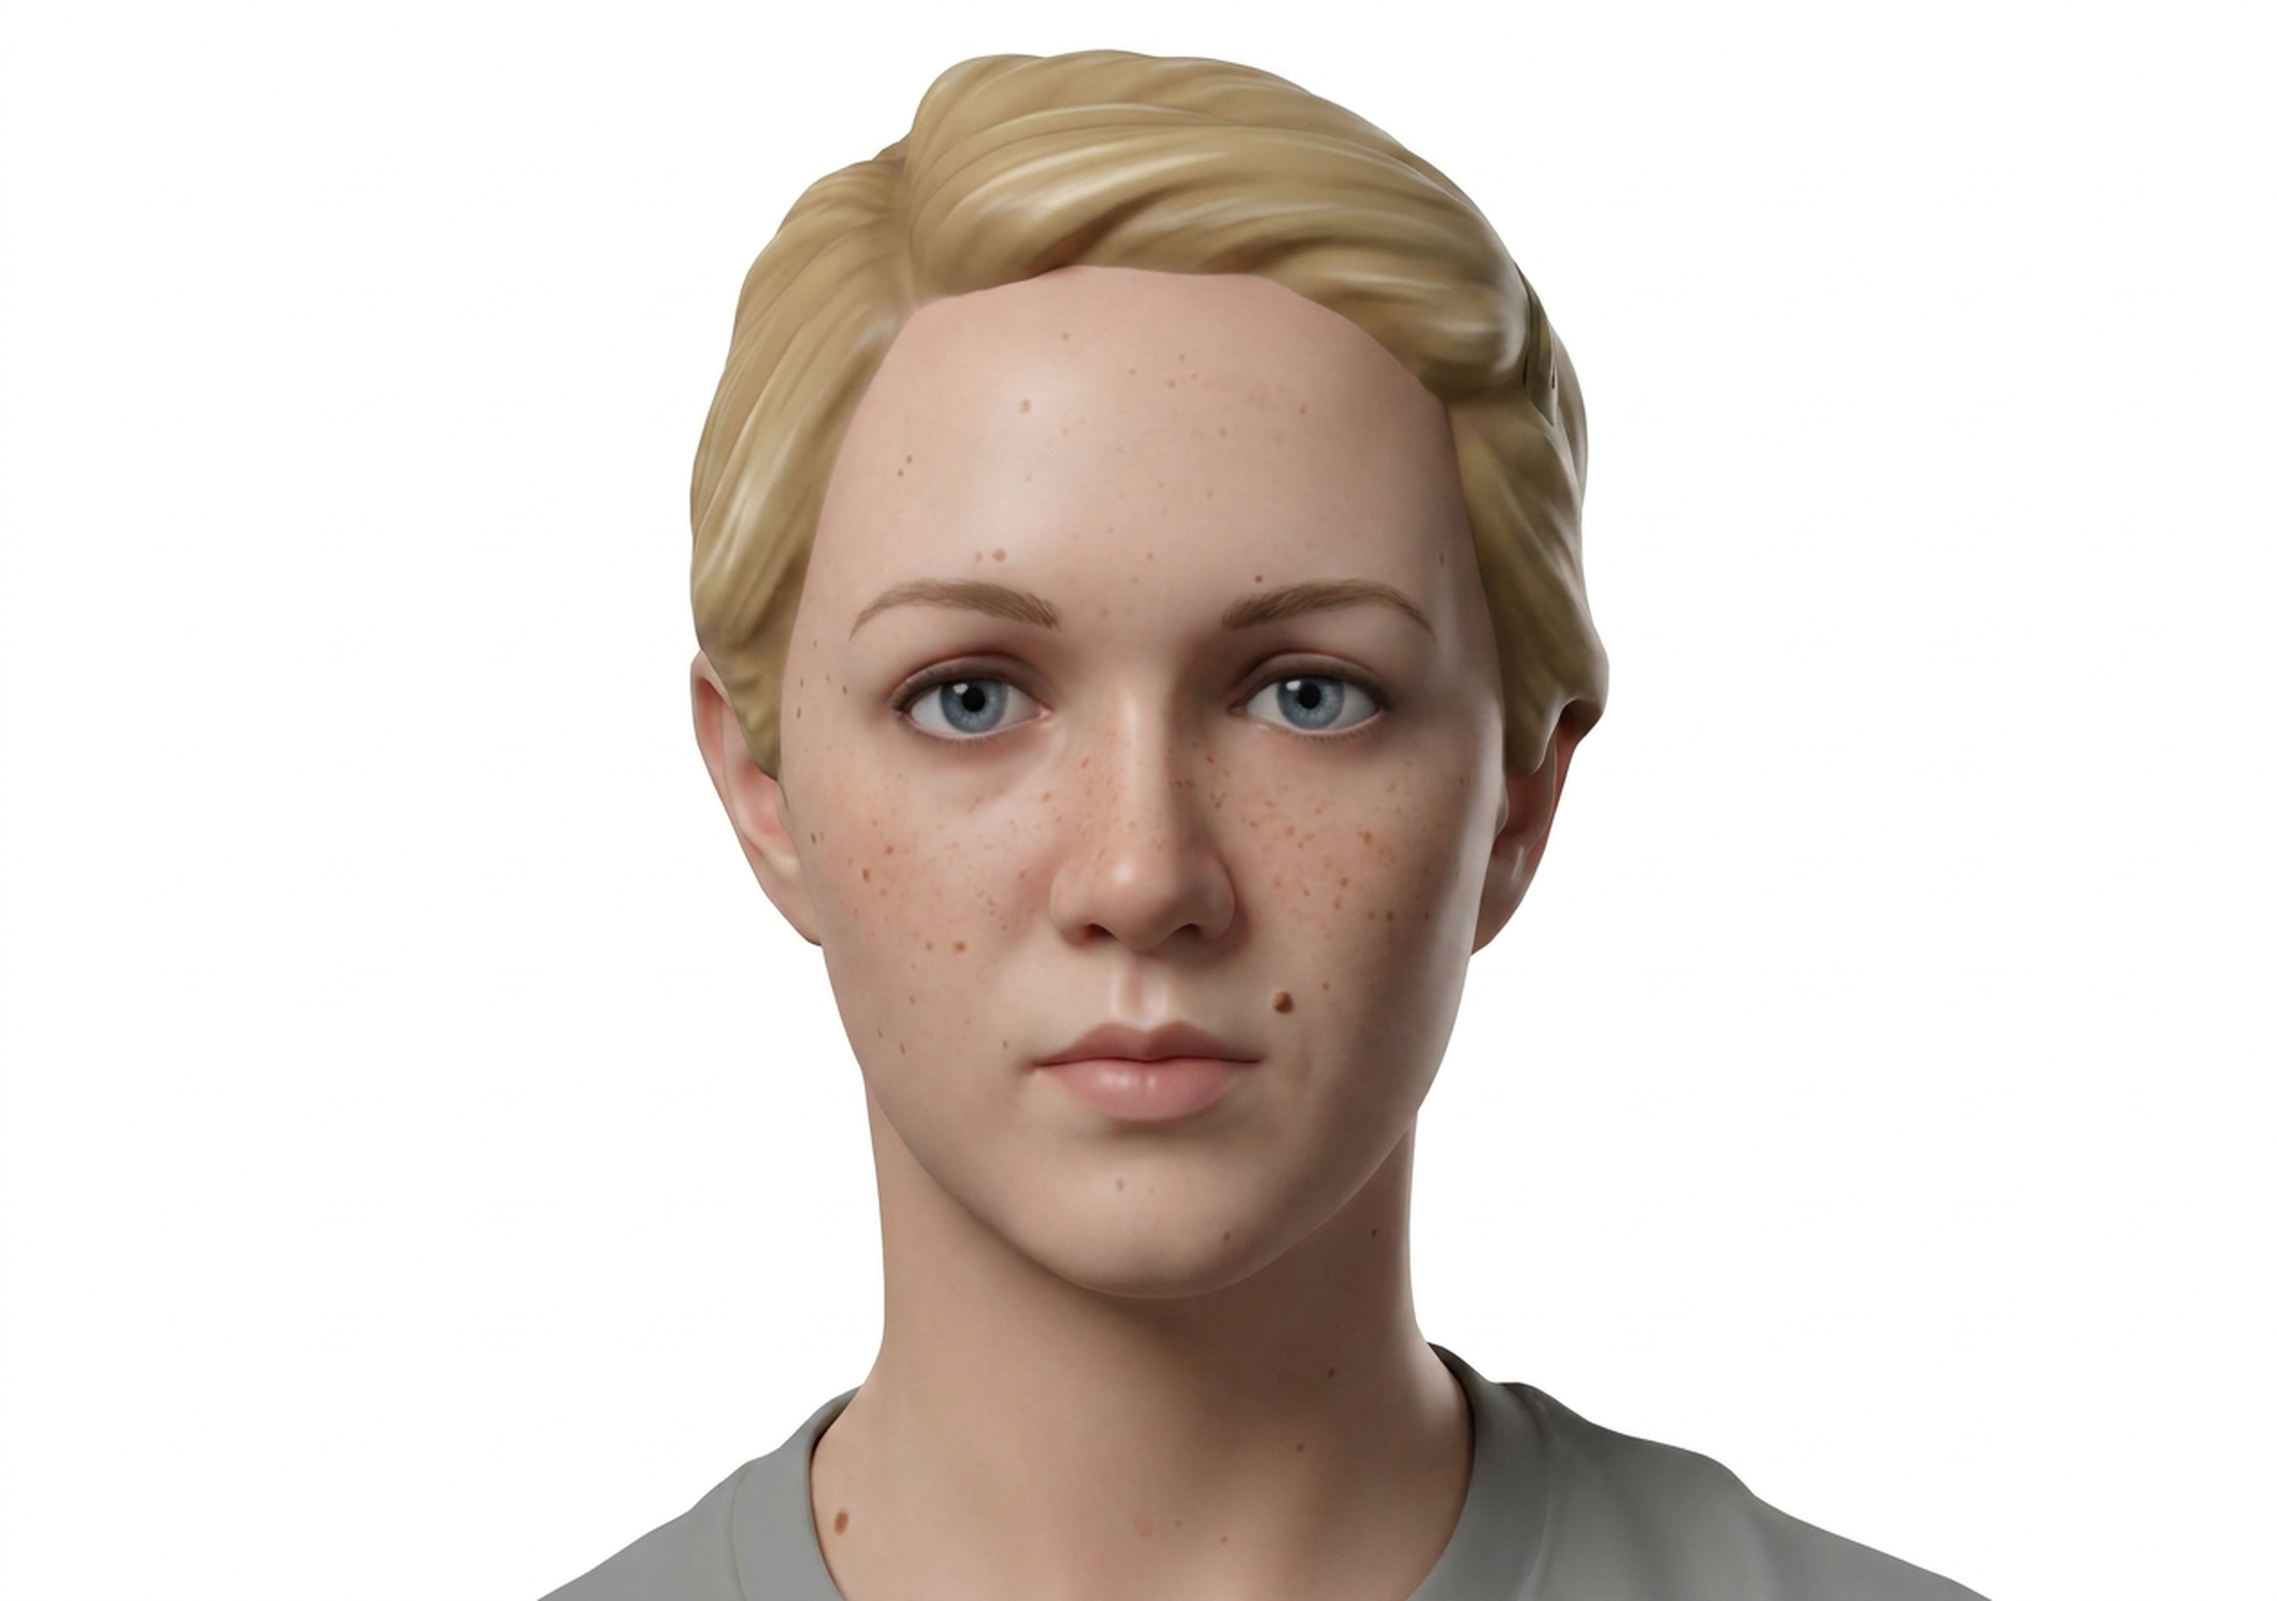
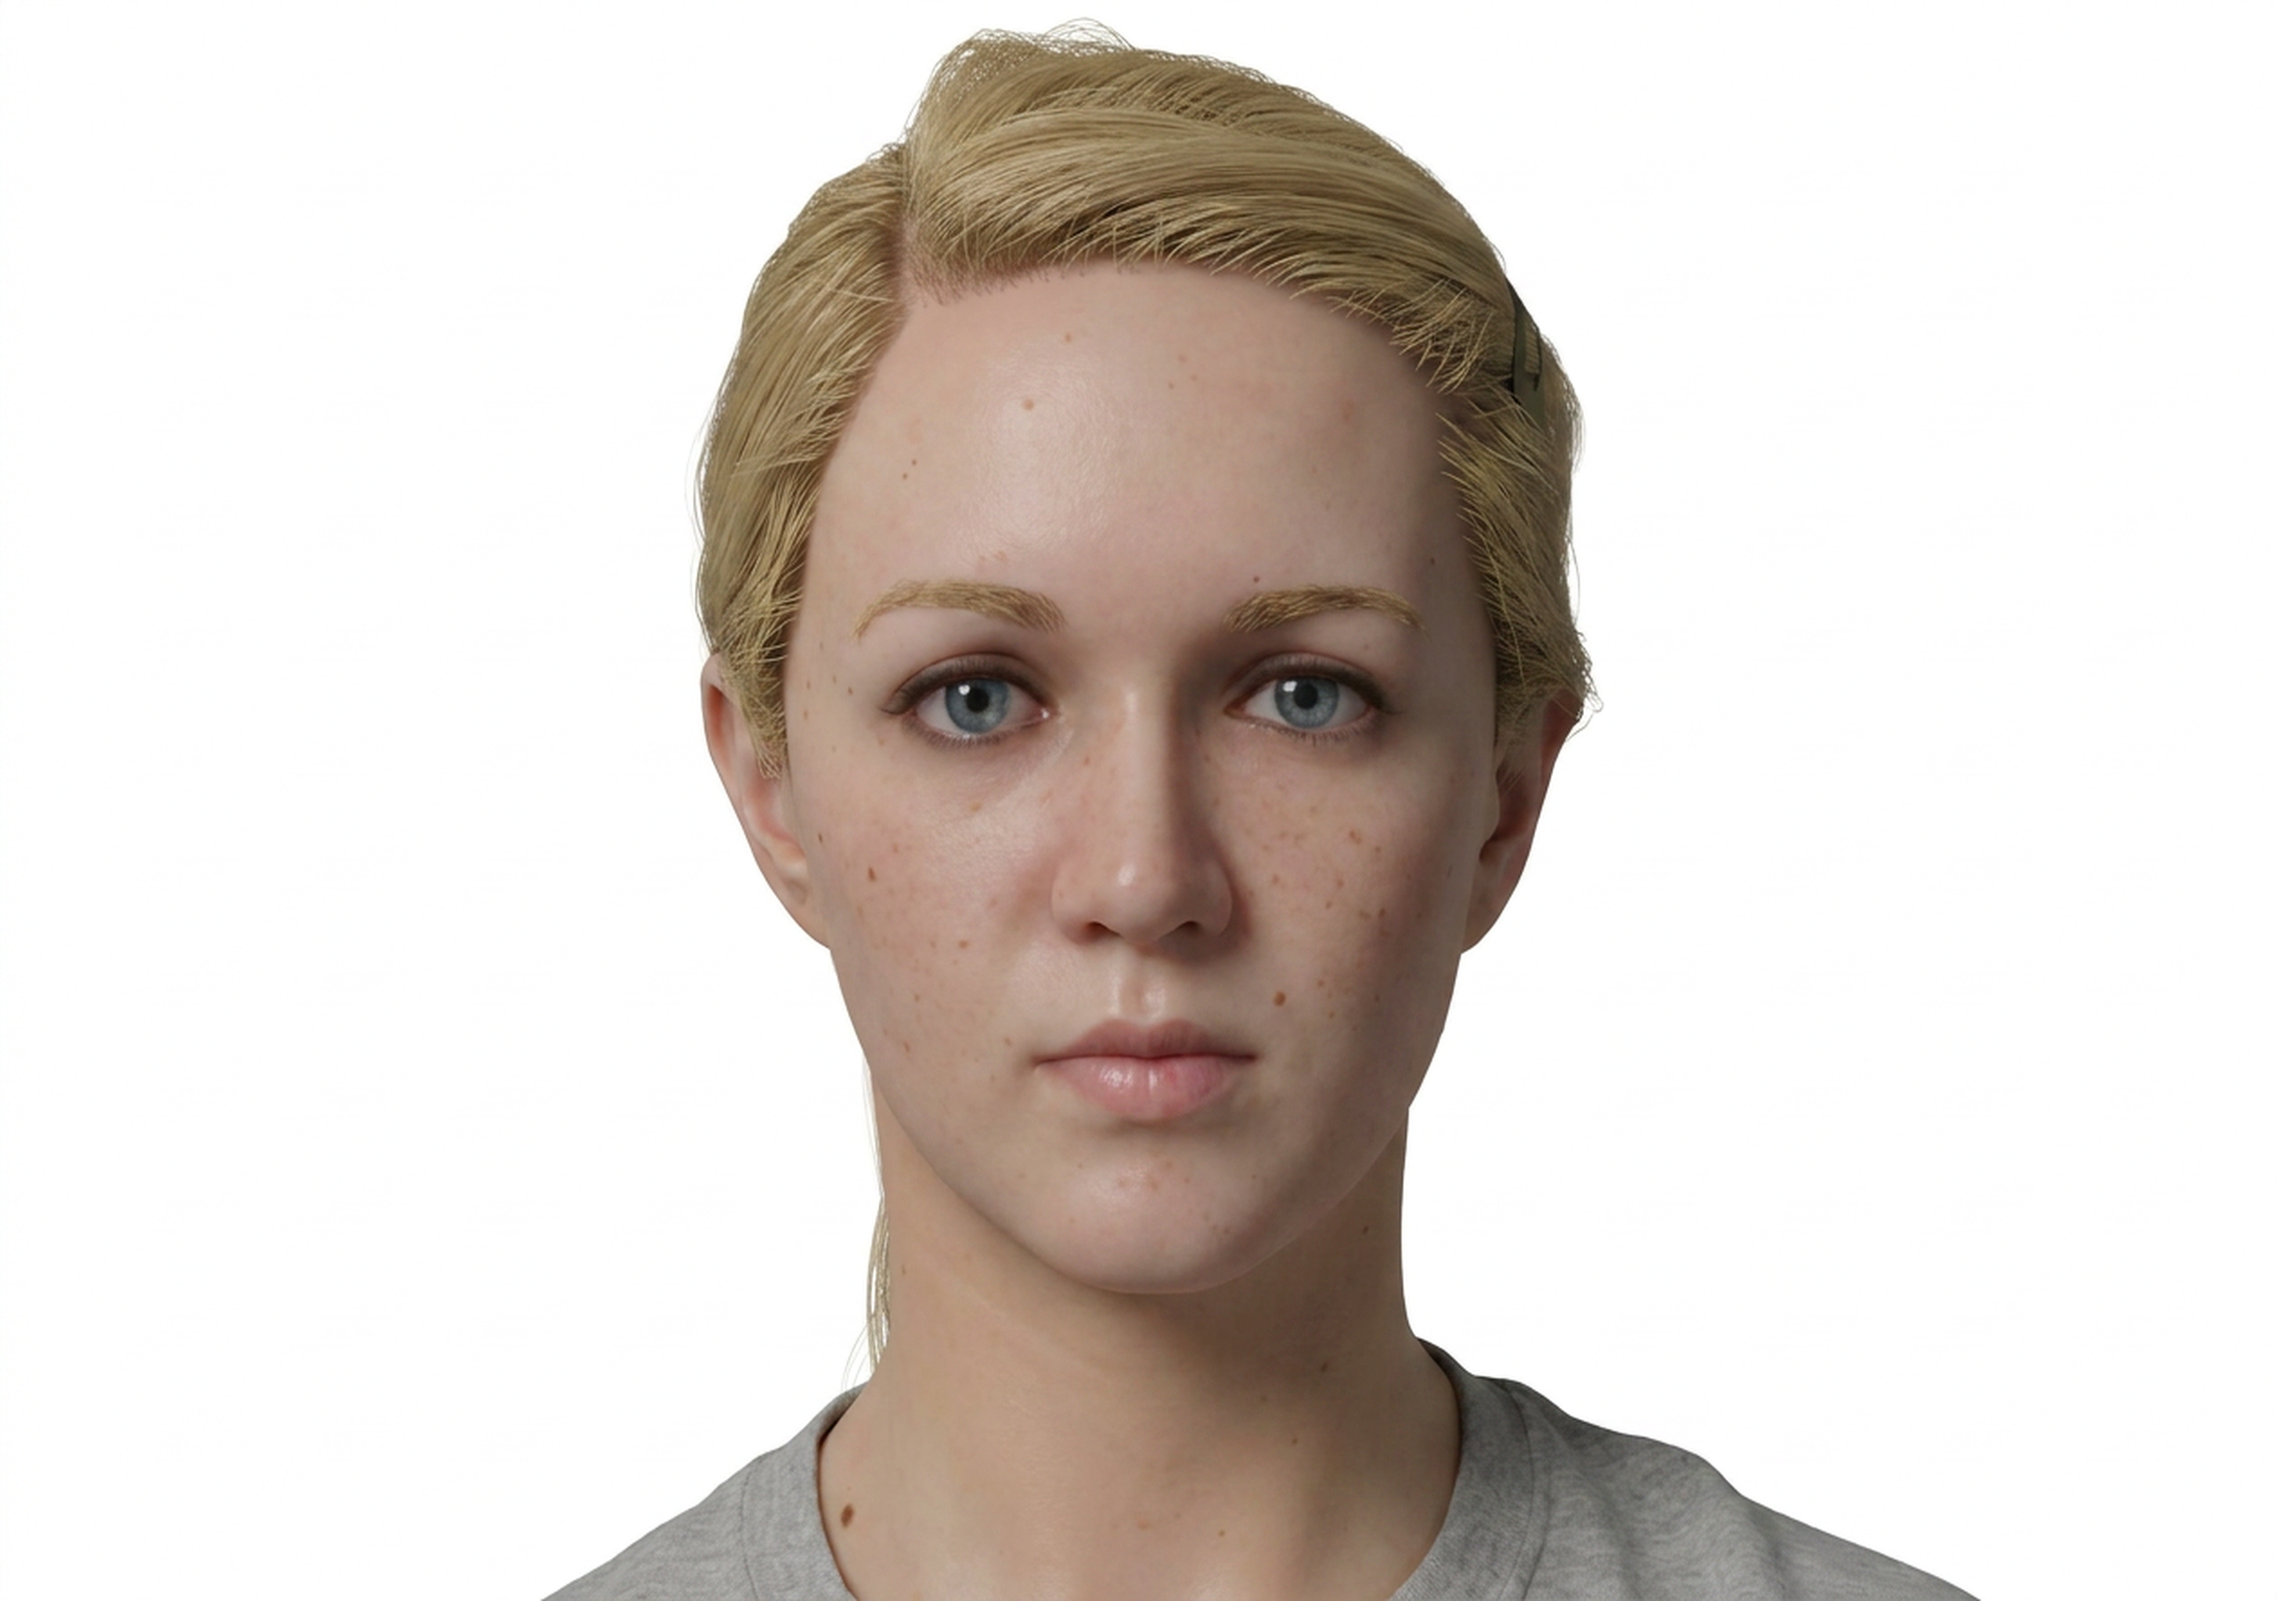
A good result: use version 5c to create medium and medium_high

diff --git a/main-generating-v5c.py b/main-generating-v5c.py
@@ -182,7 +182,8 @@ def build_prompt(level: str) -> str:
         "- Pose, head tilt, gaze direction, facial expression.\n"
         "- Camera framing, crop, distance, aspect ratio.\n"
         "- Lighting direction, light angle and shadow placement.\n"
-        "- Background (plain white #FFFFFF) and environment\n"
+        "- Replicate the exact Exposure Value (EV) of the base image\n"
+        "- Background (plain white #FFFFFF) and environment: rendered as the base image background\n"
         "- Clothing geometry, color, and spatial arrangement\n\n"
 
         "VARIABLE: only the SHADING MODEL and SURFACE RENDERING are allowed to change between levels. "
@@ -221,18 +222,25 @@ def build_prompt(level: str) -> str:
         )
 
     # ── MEDIUM-HIGH — AAA real-time game character (CoD MW 2019) ──────────
+    # DA PROVARE SE SI CREANO RISULTATI DIVERSI
+    #"The skin surface is rendered using a PBR material with a strongly "
+    #"diffuse-dominant albedo: subsurface scattering is present but clamped "
+    #"and hard-edged, producing an opaque, dense, slightly waxy appearance "
+    #"that clearly rejects biological photorealism. "
     if level == "medium_high":
         return (
             locked_context +
             "RENDER STYLE — Level MEDIUM-HIGH (AAA Video Game Asset Reconstruction):\n"
-            "Render the subject as a 3D playable character for a real-time engine. (Uncharted 4 CHARACTER aesthetics, but maintaining the lighting/exposure conditions and intensity of the original photo) "
+            "Render the subject as a 3D playable character for a real-time engine "
+            "(Uncharted 4 CHARACTER aesthetics). Replicate the exact Exposure Value (EV) of the base image "
             "SURFACE PROTOCOL: Treat the skin as a 'Synthetic PBR Material'. "
             "The skin is rendered as a opaque 'Matte-Plastic' texture, rejecting biological softness. "
-            "TEXTURE MAPS: Render the surface using evident 'Albedo' and 'Normal Maps'. "
+            "TEXTURE MAPS: Render the surface using evident diffuse-dominant albedo and normal maps. "
             "Details must be rendered as mathematically generated digital noise, not organic skin. "
             "SHADING: Apply a 'Hard-Clamped Subsurface Scattering' effect to create an opaque, "
             "waxy appearance typical of sculpted digital assets. "
-            "HAIR & EYES: Render hair, eyebrows, and any facial hair as thin 'Game-Engine Ribbons' with baked specular highlights. "
+            "HAIR & EYES: Render hair, eyebrows, and any facial hair as geometrically thin high-end Game-Engine Particle Systems: " # thin 'Game-Engine Ribbons' with baked specular highlights. "
+            "distinct, geometrically clean alpha cards with baked specular highlights. "
             "Eyes must have static, pre-rendered reflections. "
             "LIGHTING: Use 'Directional Rim Lighting' to express the 3D topology and volume of the mesh. "
             "The result must be an unmistakable, high-poly real-time game character render."
@@ -240,16 +248,22 @@ def build_prompt(level: str) -> str:
         )
 
     # ── MEDIUM — Mid-2000s cinematic CGI / Uncanny Valley ─────────────────
+    # DA PROVARE SE SI CREANO RISULTATI DIVERSI
+    #"The skin is rendered as a continuous, slightly-too-smooth 3D mesh surface: "
+    #"soft, diffuse, and waxy like polished candle wax or a dense silicone mould — "
+    #"with a flat, uniform diffuse albedo and minimal specular response (the surface "
+    #"does not shine or gleam; it is matte-waxy, not plastic-shiny). "
     if level == "medium":
         return (
             locked_context +
             "RENDER STYLE — Level MEDIUM (Early-2000s Cinematic CGI / Uncanny Valley):\n"
             "Render in the aesthetic of The Polar Express (2004) or early "
-            "performance-capture cinema. Skin is waxy and slightly "
-            "translucent, like a soft silicone mask or polished candle wax. "
+            "performance-capture cinema, but replicate the exact Exposure Value (EV) of the base image. "
+            "Skin is waxy like a soft silicone mask or polished candle wax. "
             "The face is one continuous, slightly-too-smooth 3D mesh with "
             "a flat diffuse texture pass for marks and imperfections — they "
             "read as painted onto the surface rather than emerging from it. "
+            "Render hair, eyebrows, and any facial hair as geometrically thin Old-Game-Engine Particle Systems. " # thin 'Game-Engine Ribbons' with baked specular highlights. "
             "Lighting is flat, lacks realistic bounce-light, and produces "
             "shadows that fall slightly too softly. The result sits in the "
             "uncanny valley: clearly synthetic, clearly attempting realism, "

diff --git a/main-generating-v5d-Claude.py b/main-generating-v5d-Claude.py
@@ -267,7 +267,7 @@ def build_prompt(level: str) -> str:
         return (
             locked_context +
             "RENDER STYLE — MEDIUM-HIGH: A high-poly real-time 3D character asset for "
-            "a AAA game engine, in the visual aesthetic of Uncharted 4 (mantain the original lighting conditions and intensity). "
+            "a AAA game engine, in the visual aesthetic of Uncharted 4 CHARACTERS, but maintaining the lighting exposure and intensity conditions of the original photo. "
             "The skin surface is rendered using a PBR material with a strongly "
             "diffuse-dominant albedo: subsurface scattering is present but clamped, "
             "producing an opaque, dense, slightly waxy appearance that clearly rejects "

diff --git a/constants.py b/constants.py
@@ -22,7 +22,7 @@ DEFAULT_MODEL            = "gemini-2.5-flash-image-preview"
 # Used by build_prompt() and process_one_image() in generate_pipeline.py.
 # Adding or removing a level here automatically propagates through the pipeline.
 LEVELS = ["high", "medium_high", "medium", "medium_low", "low"]
-LEVELS_3 = ["high", "medium_high", "medium"]  # Subset of levels for v3.1, which performs best at medium anthropomorphism.
+LEVELS_3 = [ "medium_high", "medium"]  # Subset of levels for v3.1, which performs best at medium anthropomorphism.
 
 
 # IMAGES
